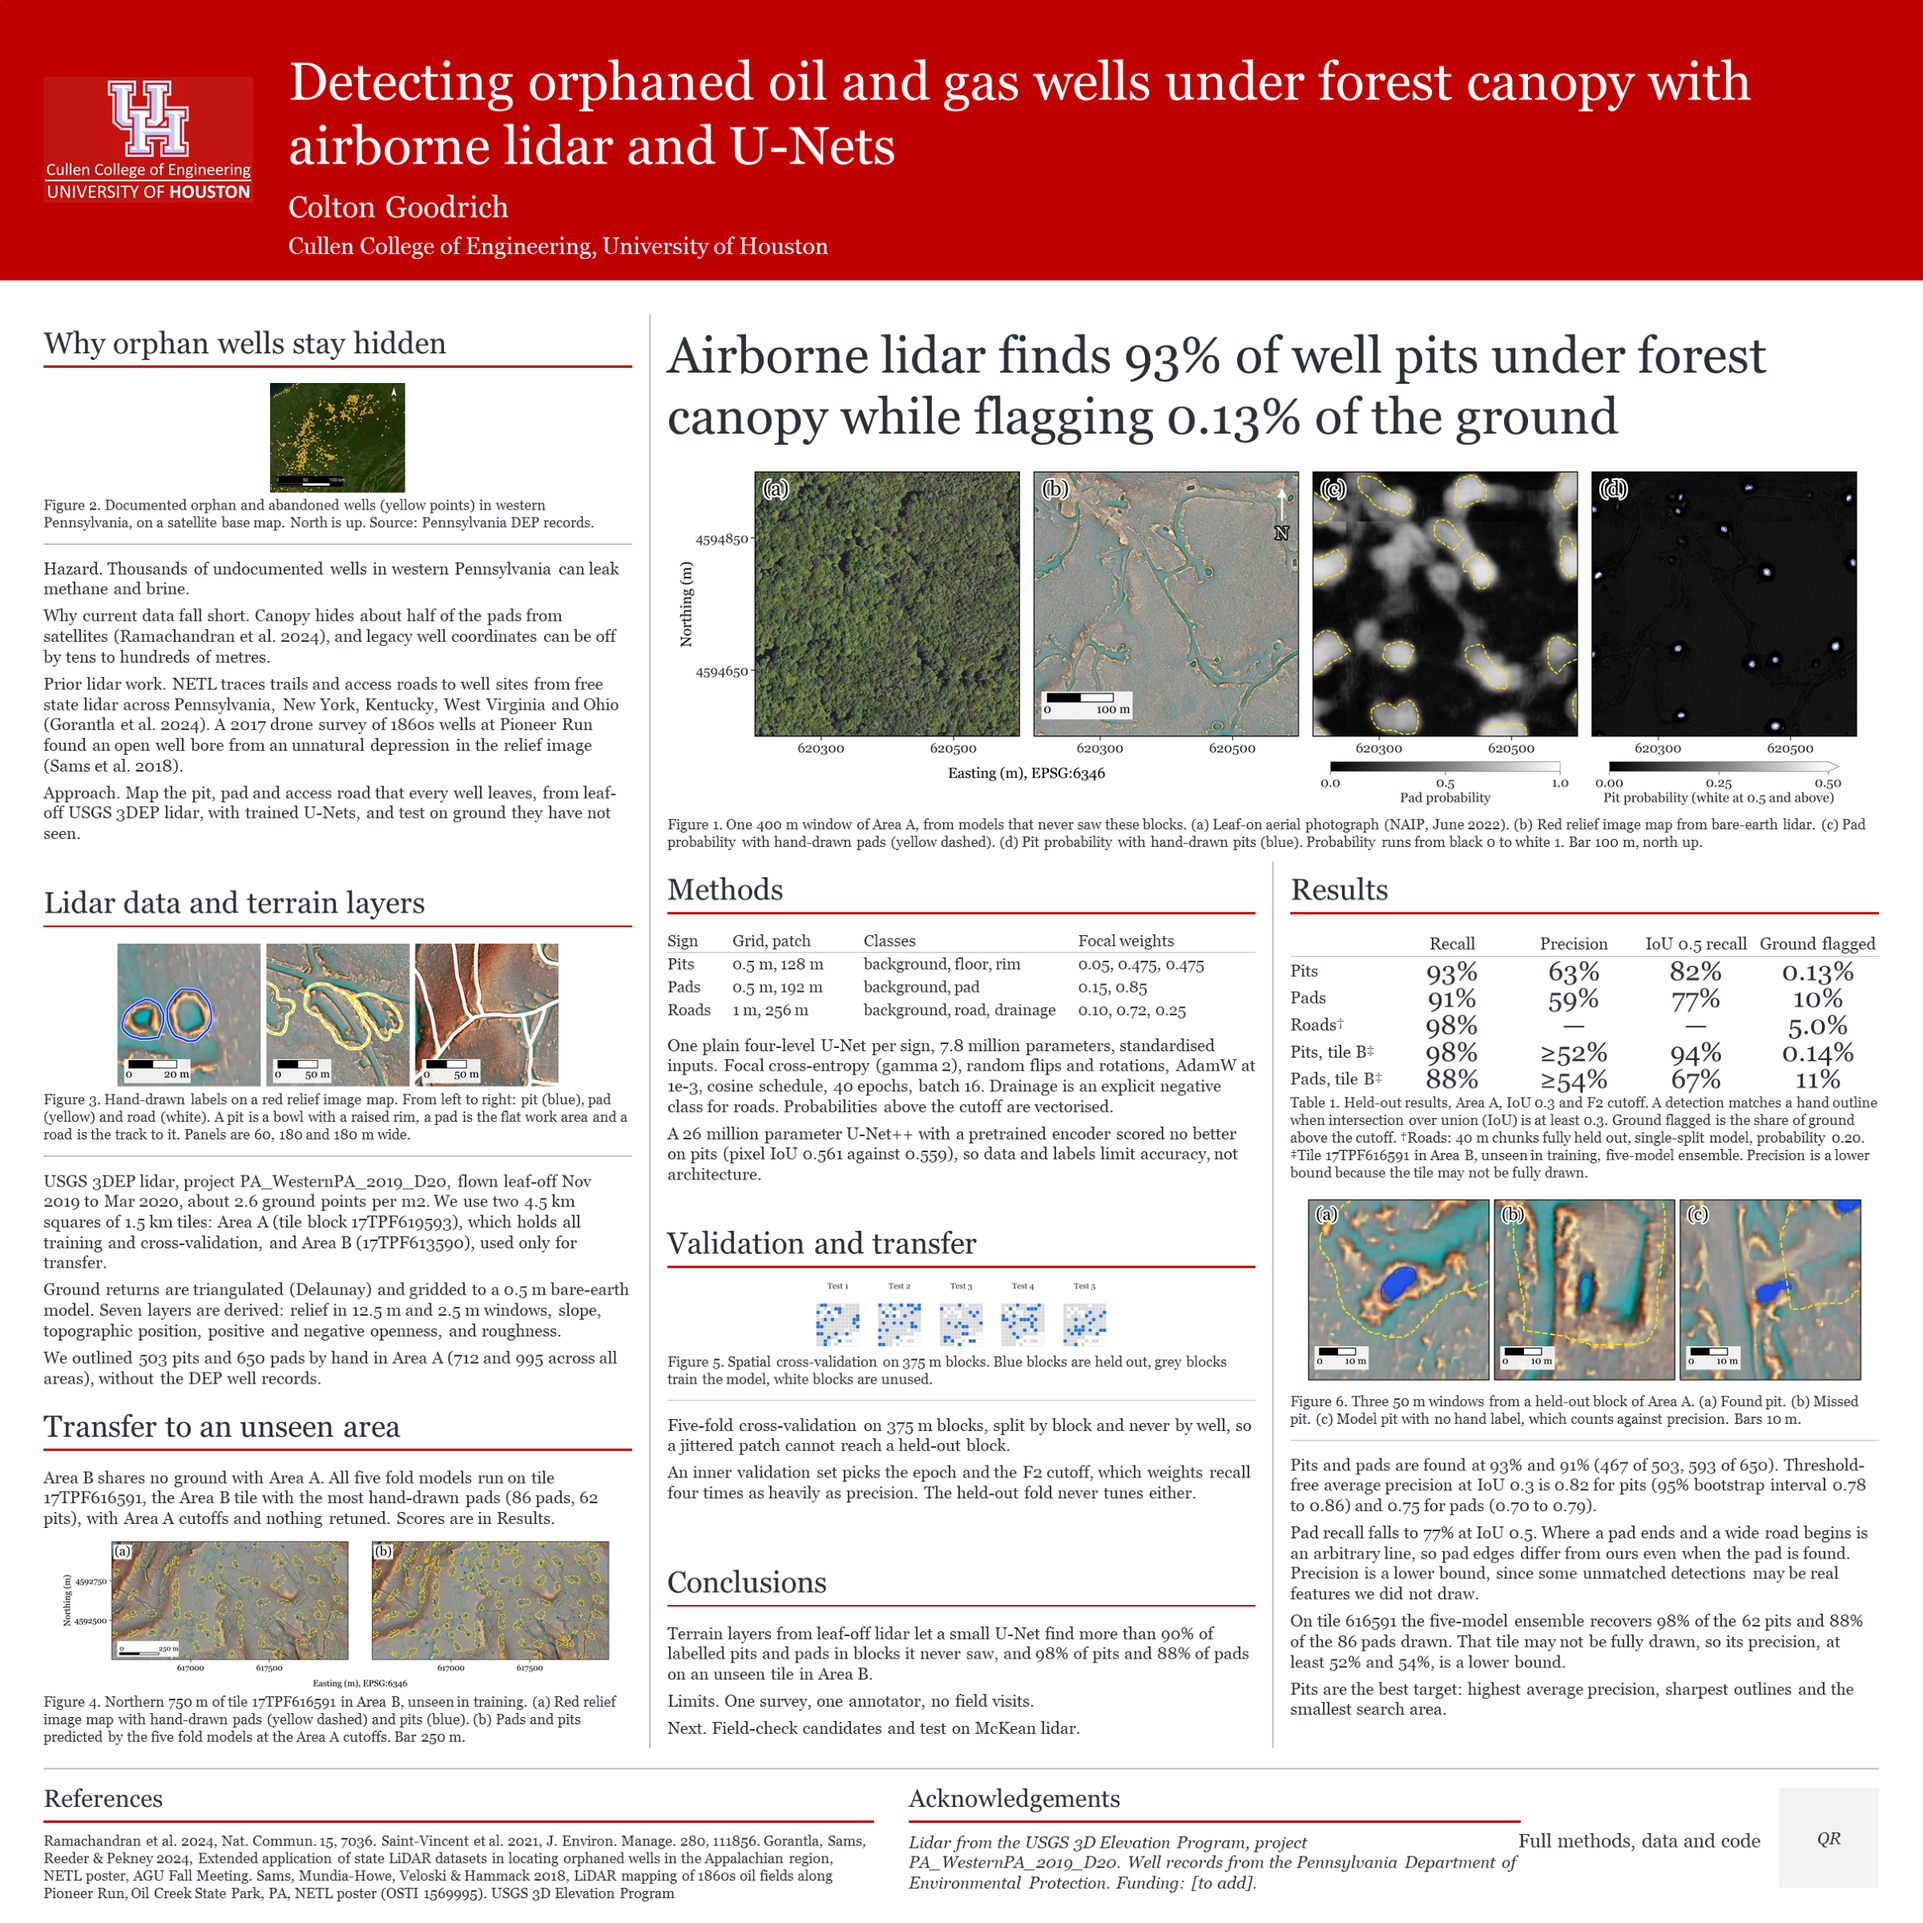
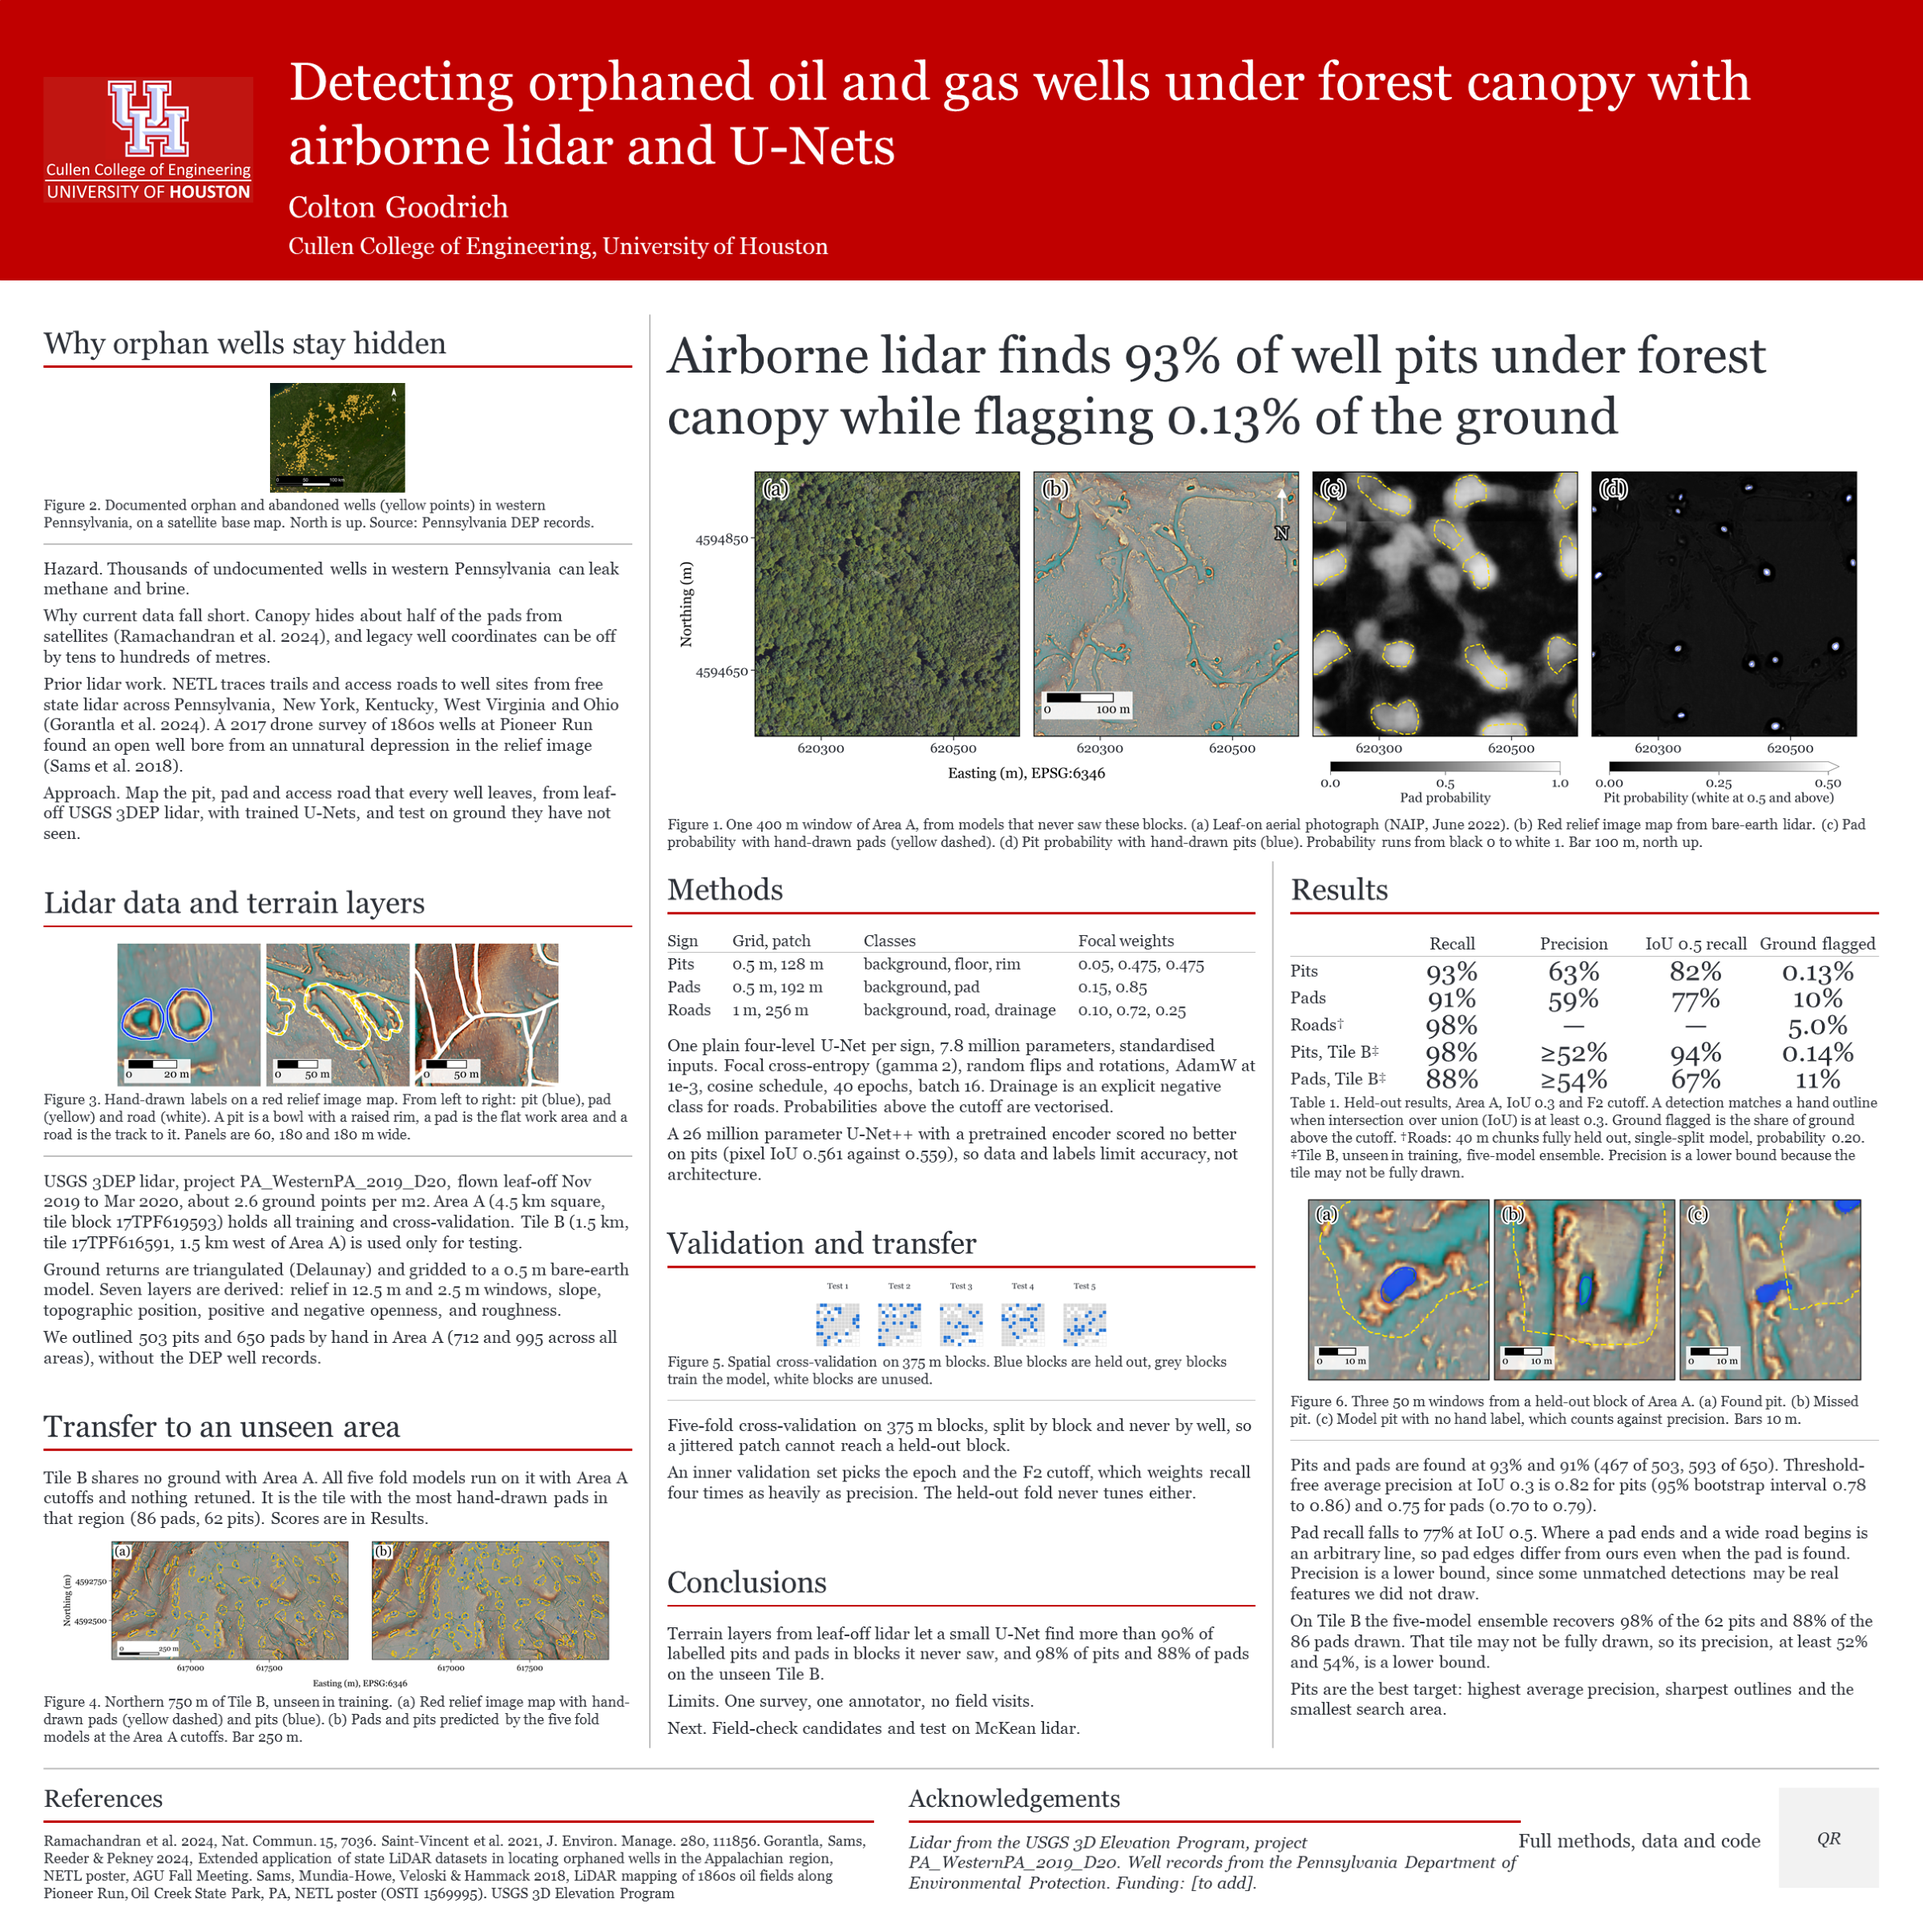
agu poster: call the test tile Tile B

diff --git a/agu_poster/_make_agu_poster.py b/agu_poster/_make_agu_poster.py
@@ -82,7 +82,7 @@ CAPS = {
     "signs": ("Figure 3.", "Hand-drawn labels on a red relief image map. From left to right: pit (blue), pad (yellow) and road (white). "
               "A pit is a bowl with a raised rim, a pad is the flat work area and a road is the track to it. Panels are 60, 180 and 180 m wide."),
     "valid": ("Figure 5.", "Spatial cross-validation on 375 m blocks. Blue blocks are held out, grey blocks train the model, white blocks are unused."),
-    "transfer": ("Figure 4.", "Northern 750 m of tile 17TPF616591 in Area B, unseen in training. (a) Red relief image map with hand-drawn pads (yellow dashed) "
+    "transfer": ("Figure 4.", "Northern 750 m of Tile B, unseen in training. (a) Red relief image map with hand-drawn pads (yellow dashed) "
                  "and pits (blue). (b) Pads and pits predicted by the five fold models at the Area A cutoffs. Bar 250 m."),
     "errors": ("Figure 6.", "Three 50 m windows from a held-out block of Area A. (a) Found pit. (b) Missed pit. "
                "(c) Model pit with no hand label, which counts against precision. Bars 10 m."),
@@ -103,15 +103,15 @@ SECTIONS = [
     ]),
     ("Lidar data and terrain layers", C1, None, [
         ("fig", "signs", 3.3, "Pit, pad, road on RRIM"),
-        ("text", "USGS 3DEP lidar, project PA_WesternPA_2019_D20, flown leaf-off Nov 2019 to Mar 2020, about 2.6 ground points per m2. We use two 4.5 km squares of 1.5 km tiles: Area A (tile block 17TPF619593), which holds all training and cross-validation, and Area B (17TPF613590), used only for transfer.|"
+        ("text", "USGS 3DEP lidar, project PA_WesternPA_2019_D20, flown leaf-off Nov 2019 to Mar 2020, about 2.6 ground points per m2. Area A (4.5 km square, tile block 17TPF619593) holds all training and cross-validation. Tile B (1.5 km, tile 17TPF616591, 1.5 km west of Area A) is used only for testing.|"
                  "Ground returns are triangulated (Delaunay) and gridded to a 0.5 m bare-earth model. Seven layers are derived: relief in 12.5 m "
                  "and 2.5 m windows, slope, topographic position, positive and negative openness, and roughness.|"
                  "We outlined 503 pits and 650 pads by hand in Area A (712 and 995 across all areas), without the DEP well records."),
     ]),
     ("Transfer to an unseen area", C1, None, [
-        ("text", "Area B shares no ground with Area A. All five fold models run on tile 17TPF616591, the Area B tile with the most hand-drawn pads "
-                 "(86 pads, 62 pits), with Area A cutoffs and nothing retuned. Scores are in Results."),
-        ("fig", "transfer", 3.4, "Predictions on tile 616591"),
+        ("text", "Tile B shares no ground with Area A. All five fold models run on it with Area A cutoffs and nothing retuned. "
+                 "It is the tile with the most hand-drawn pads in that region (86 pads, 62 pits). Scores are in Results."),
+        ("fig", "transfer", 3.4, "Predictions on Tile B"),
     ]),
     ("Methods", C2, LOWER, [
         ("spec", None, 2.1, None),
@@ -129,7 +129,7 @@ SECTIONS = [
     ]),
     ("Conclusions", C2, None, [
         ("text", "Terrain layers from leaf-off lidar let a small U-Net find more than 90% of labelled pits and pads in blocks it never saw, "
-                 "and 98% of pits and 88% of pads on an unseen tile in Area B.|"
+                 "and 98% of pits and 88% of pads on the unseen Tile B.|"
                  "Limits. One survey, one annotator, no field visits.|"
                  "Next. Field-check candidates and test on McKean lidar."),
     ]),
@@ -140,7 +140,7 @@ SECTIONS = [
                  "(95% bootstrap interval 0.78 to 0.86) and 0.75 for pads (0.70 to 0.79).|"
                  "Pad recall falls to 77% at IoU 0.5. Where a pad ends and a wide road begins is an arbitrary line, so pad edges differ from ours "
                  "even when the pad is found. Precision is a lower bound, since some unmatched detections may be real features we did not draw.|"
-                 "On tile 616591 the five-model ensemble recovers 98% of the 62 pits and 88% of the 86 pads drawn. "
+                 "On Tile B the five-model ensemble recovers 98% of the 62 pits and 88% of the 86 pads drawn. "
                  "That tile may not be fully drawn, so its precision, at least 52% and 54%, is a lower bound.|"
                  "Pits are the best target: highest average precision, sharpest outlines and the smallest search area."),
     ]),
@@ -151,11 +151,11 @@ TABLE = [("", "Recall", "Precision", "IoU 0.5 recall", "Ground flagged"),
          ("Pits", "93%", "63%", "82%", "0.13%"),
          ("Pads", "91%", "59%", "77%", "10%"),
          ("Roads\u2020", "98%", "\u2014", "\u2014", "5.0%"),
-         ("Pits, tile B‡", "98%", "≥52%", "94%", "0.14%"),
-         ("Pads, tile B‡", "88%", "≥54%", "67%", "11%")]
+         ("Pits, Tile B‡", "98%", "≥52%", "94%", "0.14%"),
+         ("Pads, Tile B‡", "88%", "≥54%", "67%", "11%")]
 TABLE_NOTE = ("Table 1. Held-out results, Area A, IoU 0.3 and F2 cutoff. A detection matches a hand outline when intersection over union (IoU) "
               "is at least 0.3. Ground flagged is the share of ground above the cutoff. \u2020Roads: 40 m chunks fully held out, single-split model, "
-              "probability 0.20. \u2021Tile 17TPF616591 in Area B, unseen in training, five-model ensemble. Precision is a lower bound because the tile may not be fully drawn.")
+              "probability 0.20. \u2021Tile B, unseen in training, five-model ensemble. Precision is a lower bound because the tile may not be fully drawn.")
 SPEC = [("Sign", "Grid, patch", "Classes", "Focal weights"),
         ("Pits", "0.5 m, 128 m", "background, floor, rim", "0.05, 0.475, 0.475"),
         ("Pads", "0.5 m, 192 m", "background, pad", "0.15, 0.85"),
